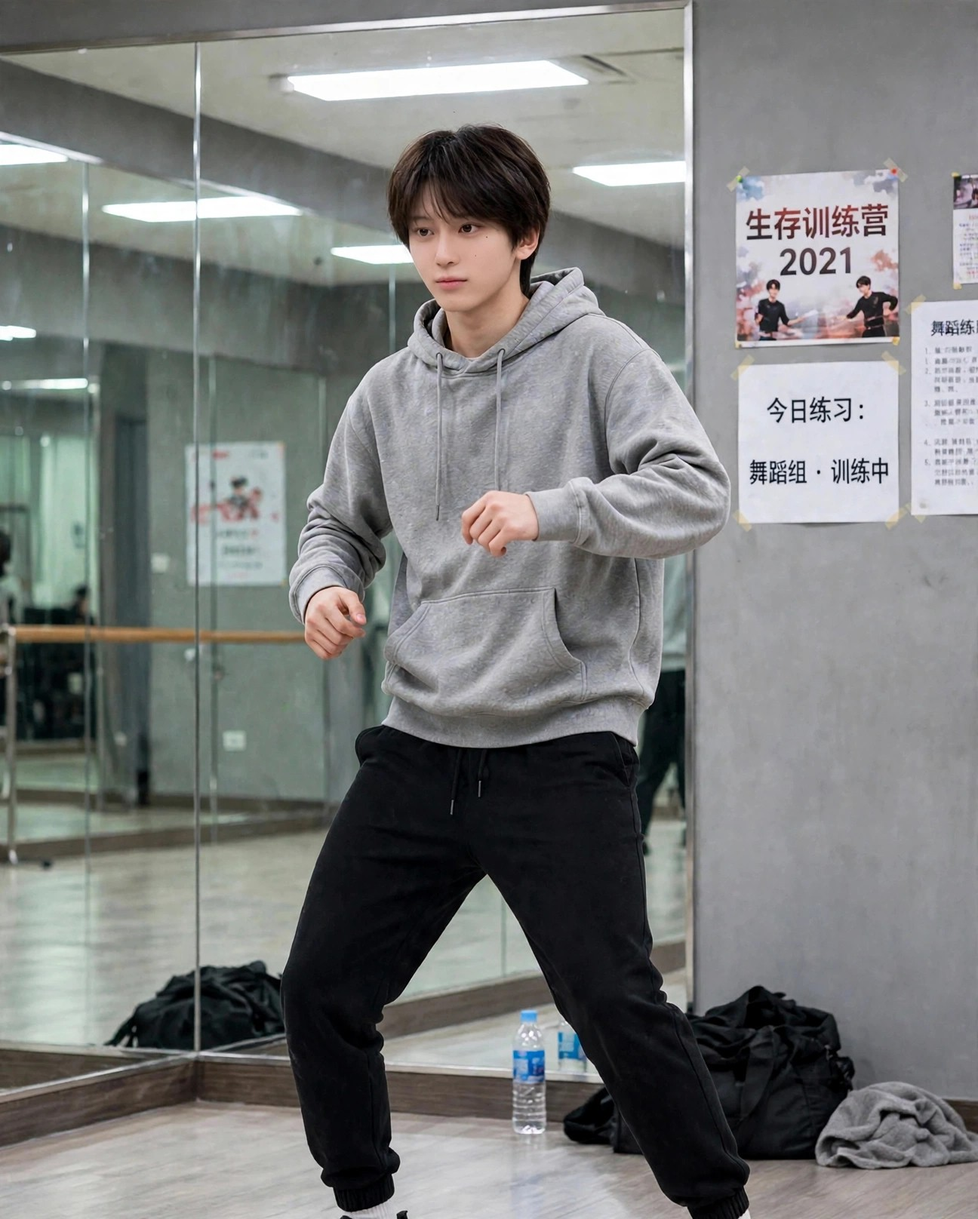
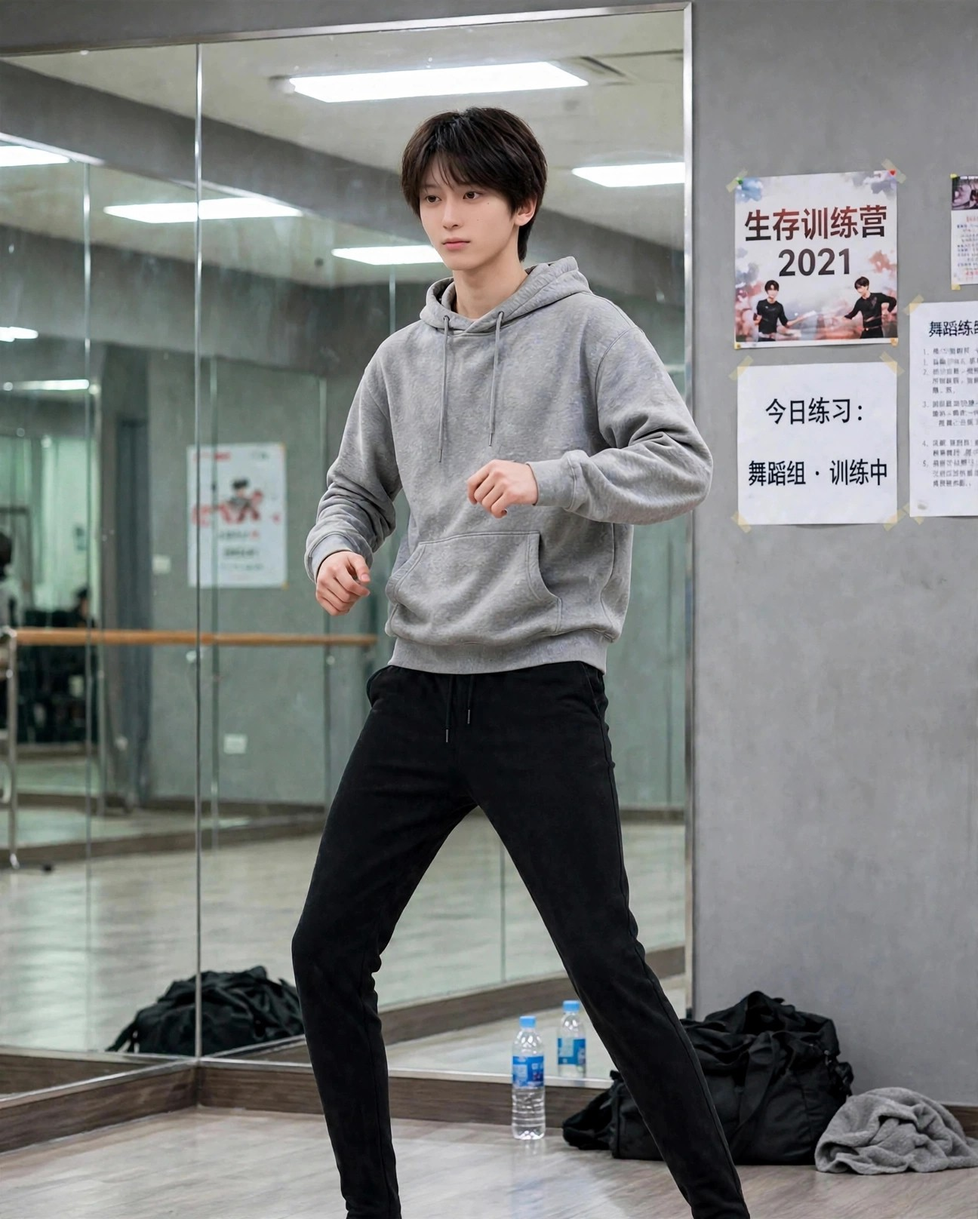
v154: 練習室カット2点の脚の比率を修正

diff --git a/index.html b/index.html
@@ -732,7 +732,7 @@ body{font-family:-apple-system,"Hiragino Kaku Gothic ProN","Noto Sans JP",sans-s
 <script>
 "use strict";
 const $=s=>document.querySelector(s);
-const VER="v153";
+const VER="v154";
 /* ============ state ============ */
 const DEF={idx:0,started:false,consented:false,soundOn:true,
  g:{iwakan:0,bare:0,todoita:0,uta:8,dance:4,ishi:50},
@@ -2472,7 +2472,7 @@ function renderSettings(tab){setTab=tab;document.querySelectorAll("#set-tabs but
  <div class="srow"><span>到達した結末</span><span class="sv">${S.trueEnd?"TRUE END ― 現在":S.normalEnd?"END ― 通常現在":S.loopBad?"BAD END ― ループ継続":S.bareEnd?"END ― 秘密バレIF":S.ridatsuEnd?"END ― 離脱した現在":"（まだ到達していません）"}</span></div>
  <div class="srow"><span>サウンド</span><span class="sv"><button id="snd-btn" style="background:${S.soundOn!==false?"#17172a":"#c6c6d4"};color:#fff;border:none;border-radius:999px;padding:6px 18px;font-size:12.5px;font-weight:700;cursor:pointer">${S.soundOn!==false?"ON":"OFF"}</button></span></div>
  <div class="srow"><span>フィクション</span><span class="sv">実在の記録をもとにした創作です</span></div>
- <div class="srow"><span>アップデート</span><span class="sv">v16 サウンドと画面遷移／v17 差分再演REPLAYとDiff時代別表示／v18 現在の小さな変化／v19 トークのスレッドとフリーチャット／v20・v23・v32 場面カットの追加／v21 日常回（食堂の夜・売店の夜）／v22 番組アプリの情報デザイン／v24 ホーム背景の時代連動と進行％／v25 タイトルのスライドショー／v26 彼の画面のカウンタ／v27 ロック画面の通知スタック／v28 写真の全画面ビューア／v30 章ごとの記録カード／v31 フィナーレ直前の彼の視点／v33 フリーチャットの時代別応答／v34 投票レシート／v35 ミッション進捗バー／v36 ゲージの危険域表示／v37 選んだ記録の判別表示／v38 台帳の時代別表示／v39 Keepsakeの時代バッジ／v41 章名つきロック画面／v42 トークの新着バッジ／v43 名簿の詳細パネル／v44 写真のスワイプ送り／v45 BGMの時代連動／v46 順位・差分の専用SE／v47 長押し早送り／v48 章セレクト／v50 REPLAY再演の追加／v52 日常回（コンビニの夜）／v53 タイトル通知のセーブ連動／v54 アプリアイコンのバッジ／v55 主人公の正式名「三浦渚央」と2019プロフィールの新フェイス差し替え／v56〜v59 プロフィール・場面カットの新フェイス再生成／v60 カード画角の統一（頭部55〜60%）と三浦渚央の順位表示／v61 名簿メモへの順位追記と凡例／v62 周B順位発表の彼の視点／v63 ストーリーバナーのサムネ時代連動／v64 タイトルに正式名／v65 ロック画面に順位通知／v66 情報タブに順位の記録／v67 順位行の文字色修正／v68 現在の小さな変化（順位の残響）／v69 写真メモに順位結果／v70 節目 ― 全アプリ走査／v71 フリーチャットの話題追加／v72 トークのチップ追加／v73・v74 順位タブの空状態整理／v75 順位変動のDiff記録／v76 節目 ― 全アプリ走査／v77 2021周A・初回ステージ後に彼の画面を追加／v78 2023周A・ファンカム章に彼の視点（インライン）を追加／v79 2019周A・順位発表式に彼の視点（インライン）を追加／v80 2023周A・VERY NICE本番前に彼の視点（インライン）を追加／v81 2023周A・寮の夜に彼の視点（インライン）を追加／v82 2019周A・届くはずのなかった手紙に彼の視点（インライン）を追加／v83 フリーチャットの話題拡充（2019専用プール＋新キーワード6種＋チップ追加）／v84 周Aの彼の記憶の線引きで全監査（2021・2023到着場面と彼の画面3件を連続した同僚の前提に書き換え）／v85 2019周A・練習室の夜に彼の視点（インライン）を追加／v86 2021周A・寮の一夜に彼の視点（インライン）を追加／v87 2023周A・コンビニの夜に彼の視点（インライン）を追加／v88 台帳・Keepsake・Diffの時代分類を修正（NXD期グループ新設、誤分類6件を是正）／v89 場面カット追加（2023順位発表の夜・face2基準で新規生成）／v90 場面カット追加（2021ファイナルの夜・face2基準で新規生成）／v91 節目 ― 全アプリ走査／v92 日常回「自販機の夜」（2023・周B）を追加／v93 2019周A・レベル分け評価に彼の視点（インライン）を追加／v94 写真アプリに時代別グルーピング（見出し＋枚数）を追加／v95 場面カット追加（NXD期・夜の練習室、face2基準で新規生成）／v96 フリーチャットの時代別プールを拡充（各時代＋2件）／v97 2019周B・発覚に彼の視点（インライン）を追加／v98 2021周B・再会に彼の視点（インライン）を追加／v99 2023周B・発覚に彼の視点（インライン）を追加／v100 節目 ― 全編通しプレイ検証／v101 効果音の配線追加（台帳・Keepsake・彼の視点）／v102 トークに彼のメッセージを3件追加／v103 タイトルのスライドショー拡充（8枚）とホーム背景のNXD期差し替え／v104 2023周B・再会に彼の視点（インライン）を追加／v105 2021周B・売店の夜に彼の視点（インライン）を追加／v106 NXD期・周B「移籍の決断」に彼の視点（インライン）を追加／v107 2023周B・共同作戦に彼の視点（インライン）を追加／v108 2019周B・共同作戦（ツカメ対策）に彼の視点（インライン）を追加／v109 2021周B・共同作戦に彼の視点（インライン）を追加／v110 NXD期・周B「延期の季節 ― 二度目」に彼の視点（インライン）を追加／v111 フリーチャット拡充（キーワード応答3種・チップ2件・現在編プール拡充）／v112 節目 ― 全アプリ走査／v113 2023周B・自販機の夜に彼の視点（インライン）を追加／v114 2019周A・食堂の夜に彼の視点（インライン）を追加／v115 2021周B・順位発表の締めに彼の視点（インライン）を追加／v116 設計ドキュメントの実装状況を更新／v117 場面カット追加（2019食堂の夜・face2基準で新規生成）／v118 場面カット追加（2021売店の夜・face2基準で新規生成）／v119 場面カット追加（2023コンビニの夜・face2基準で新規生成）／v120 背景の差し替え（現在編の冒頭とソロデビューの場面）／v121 節目 ― 全編通しプレイ検証（v101〜v120の追加後）／v122 画像出典メモ（IMAGE_SOURCES.md）に新規カット6点とface2基準を追記／v123 READMEの状態表記を現行（本編完結・公開中）に更新／v124 視覚QAで発見した順位タブの防御的修正（順位値の欠損時に最低ラインへフォールバック）／v125 節目 ― 全画面の視覚QA（撮影確認）／v126 節目 ― 別エンディング到達検証（秘密バレIF・離脱した現在）／v127 節目 ― 全5エンディング到達検証の完了（通常現在・ループ継続BADを追加確認）／v128 設計ドキュメントの実装状況に最終検証結果を追記／v129 READMEの現行版表記を更新／v130 生成メタファイルを .gitignore に追加して作業ツリーを整理／v131 「届くはずのなかった手紙」に背景を設定（食堂カットの引き継ぎを解消）／v132 フリーチャットの応答拡充（キーワード応答8種・時代別プール各+2件・チップ2件を追加）／v133 仕上げのUI調整（ホームのアプリアイコンのラベルの可読性を向上、ストーリー画面のゲージチップを均等な3+3配置に整形）／v134 フリーチャットに語学の話題を追加（中国語・韓国語・英語へのキーワード応答）／v135 節目 ― 朝まで改修の最終版（全アプリ走査・ドキュメント同期）／v136 トークを実物化（1相手=1スレッドに集約・未読バッジ・プレビュー・実物時刻・日付チップ・自分の送信への既読表示。仕組みは『現役アイドル、Tinderやってた件』のLINEと『キープ管理中！』の未読管理から移植）／v137 2021・2023の渚央プロフィールを制服版に統一（創造営の紺制服／ボイプラの淡グレー制服。名簿・順位・パネル・背景・写真の参照を全て profile-uniform 系へ）／v138 ロック画面とホームの実物化（主通知の送信者を実アプリ名にし未読トークがあれば最新メッセージを表示、日付を月日＋曜日の実物形式に、ホームと写真の操作説明文を撤去）／v139 トークをTinder版（v462）LINEと実測比較して一致（バブルの角・色・文字サイズ、入力欄、送信ボタン、日付チップ、一覧の行構成と検索ボックス、スレッドヘッダーのアバター）／v140 トークにLINEアプリのシェルを移植（下部タブバー＋タブ画面を新設。タブの数・並び・切替挙動はTinder版LINEと同一で、ホームタブは三浦渚央のプロフィール＋届いた応援カード＋友だちリストのパネル、ニュースは番組アプリ、その他は設定・記録へ接続）／v141 ロック画面の進化（時計を88px・太字に、通知カードをblur20px＋saturateの実物仕様にして幅を統一、スタック通知のアイコンをアプリ別SVGに分けて出現をスタッガード化。ステータスバーと電池％を追加し、壁紙を時代連動＋緩やかなズームに。下部のライトは白フラッシュが光る実働ボタンに、カメラは写真アプリへ直行。通知はタップで該当アプリ・記録へ遷移）／v142 ホーム画面の進化（Tinder版ホームのページ構成を移植：飾りだったドットを実働の2ページ化にし、横スワイプとドットタップで切替。2ページ目に物語暦のカレンダーウィジェットと時代のカットが切り替わる写真ウィジェットを新設し、記録サマリと次のミッションを移設。ドットの横に検索ピルを追加し、アプリ・記録を検索して直接開けるシートを実装。下部にガラスのドック（トーク／写真／番組アプリ／設定・記録、バッジ連動）を追加。ステータスバーに電池％、壁紙に緩やかなズーム）／v143 ロック画面の通知スタックの隙間を修正（ベースCSSの上マージン34pxがスタック内の通知にも効いて間隔が42pxに広がっていたのを、実物どおり8pxに統一。あわせて通知領域を時計の下〜下部ボタンの上のスクロール領域にして、通知が多くてもライト／カメラのボタンやヒント文字に重ならないようにした）／v144 写真アプリの進化（『現役アイドル、Tinderやってた件』の写真アプリから移植：2列カード型だったグリッドを3列・隙間2px・正方形の実物仕様にし、時代見出し＋枚数のヘッダーと上部のピル型タブ（すべて／時代別で絞り込み）を新設。ビューアはお気に入り（セーブに保持、グリッドにもハート表示）とスライドショーを追加し、送りを循環式から端で止まるクランプ式に変更、キャプション＋差分メモ＋時代＋通し番号のメタ表示とキー操作に対応。複数選択モード（最大4枚）からコラージュを作成でき、ロック画面の壁紙にも設定できる（時代連動に戻す導線つき）。中身の時代別カットと枚数は従来どおり）／v145 アプリアイコンをTinder版の様式に統一（アイコンを全面SVG化し、背景レイヤーまで1枚に収める方式へ。トーク＝LINE・写真・設定・記録はTinder版と同型のアイコンに、番組アプリは金の縦グラデーション＋王冠のグリフで同水準に。アイコンの角丸と影もTinder版の実測値に一致。あわせてラベル用ピルのCSSがドックのアイコンにも漏れて円形になっていた不具合を修正し、ドックでもグリッドと同じ角丸アイコンが並ぶようにした）／v147 渚央の顔を最終基準（本人の写真由来の顔＋クールな髪型）へ差し替え開始。2023編のプロフィール（基準画像そのものへ差し替え、カード用クロップも新基準で作成）と場面カット全8点を基準顔で再生成／v148 2021編を新基準へ差し替え（プロフィールは19歳相当＋創造営制服＋屋外背景で新規生成、カード用クロップも作成。場面カット5点＝daily／practice／ranking-close／study／shop-nightを19歳相当の基準顔で再生成。stageは次版で差し替え予定）／v149 2019編を新基準へ全面差し替え（プロフィールは17歳相当で再生成し直し、カード用クロップも新規作成。場面カット7点＝stage／stage2／dorm／practice／ranking-close／selfie／cafeteriaを17歳相当の基準顔で再生成）。リンクプレビュー用のog:image（新stageから作成）も新設／v150 旧素材（候補ファイル群・旧プロフィール）を保管庫へ退避し、顔素材を新基準のラインに統一（表示内容の変更なし）／v151 2021のステージカットを新顔基準（19歳版）で差し替え、顔の全面差し替えが完了／v153 2021プロフィールに創造営の学員証を追加（メンバーが付けている装着物に合わせた。2019は名札が既存仕様どおり、2023は装着物なしが実物どおり）。<br>v152 全時代のプロフィールをポーズ付きに作り直し（2019＝ガッツポーズの全身ショット、2021＝頬ハートの膝上ショット、2023＝腕組みのウエスト上ショット。顔は新基準のラインを維持し、寄りクロップも新しい全身から作り直し）</span></div>
+ <div class="srow"><span>アップデート</span><span class="sv">v16 サウンドと画面遷移／v17 差分再演REPLAYとDiff時代別表示／v18 現在の小さな変化／v19 トークのスレッドとフリーチャット／v20・v23・v32 場面カットの追加／v21 日常回（食堂の夜・売店の夜）／v22 番組アプリの情報デザイン／v24 ホーム背景の時代連動と進行％／v25 タイトルのスライドショー／v26 彼の画面のカウンタ／v27 ロック画面の通知スタック／v28 写真の全画面ビューア／v30 章ごとの記録カード／v31 フィナーレ直前の彼の視点／v33 フリーチャットの時代別応答／v34 投票レシート／v35 ミッション進捗バー／v36 ゲージの危険域表示／v37 選んだ記録の判別表示／v38 台帳の時代別表示／v39 Keepsakeの時代バッジ／v41 章名つきロック画面／v42 トークの新着バッジ／v43 名簿の詳細パネル／v44 写真のスワイプ送り／v45 BGMの時代連動／v46 順位・差分の専用SE／v47 長押し早送り／v48 章セレクト／v50 REPLAY再演の追加／v52 日常回（コンビニの夜）／v53 タイトル通知のセーブ連動／v54 アプリアイコンのバッジ／v55 主人公の正式名「三浦渚央」と2019プロフィールの新フェイス差し替え／v56〜v59 プロフィール・場面カットの新フェイス再生成／v60 カード画角の統一（頭部55〜60%）と三浦渚央の順位表示／v61 名簿メモへの順位追記と凡例／v62 周B順位発表の彼の視点／v63 ストーリーバナーのサムネ時代連動／v64 タイトルに正式名／v65 ロック画面に順位通知／v66 情報タブに順位の記録／v67 順位行の文字色修正／v68 現在の小さな変化（順位の残響）／v69 写真メモに順位結果／v70 節目 ― 全アプリ走査／v71 フリーチャットの話題追加／v72 トークのチップ追加／v73・v74 順位タブの空状態整理／v75 順位変動のDiff記録／v76 節目 ― 全アプリ走査／v77 2021周A・初回ステージ後に彼の画面を追加／v78 2023周A・ファンカム章に彼の視点（インライン）を追加／v79 2019周A・順位発表式に彼の視点（インライン）を追加／v80 2023周A・VERY NICE本番前に彼の視点（インライン）を追加／v81 2023周A・寮の夜に彼の視点（インライン）を追加／v82 2019周A・届くはずのなかった手紙に彼の視点（インライン）を追加／v83 フリーチャットの話題拡充（2019専用プール＋新キーワード6種＋チップ追加）／v84 周Aの彼の記憶の線引きで全監査（2021・2023到着場面と彼の画面3件を連続した同僚の前提に書き換え）／v85 2019周A・練習室の夜に彼の視点（インライン）を追加／v86 2021周A・寮の一夜に彼の視点（インライン）を追加／v87 2023周A・コンビニの夜に彼の視点（インライン）を追加／v88 台帳・Keepsake・Diffの時代分類を修正（NXD期グループ新設、誤分類6件を是正）／v89 場面カット追加（2023順位発表の夜・face2基準で新規生成）／v90 場面カット追加（2021ファイナルの夜・face2基準で新規生成）／v91 節目 ― 全アプリ走査／v92 日常回「自販機の夜」（2023・周B）を追加／v93 2019周A・レベル分け評価に彼の視点（インライン）を追加／v94 写真アプリに時代別グルーピング（見出し＋枚数）を追加／v95 場面カット追加（NXD期・夜の練習室、face2基準で新規生成）／v96 フリーチャットの時代別プールを拡充（各時代＋2件）／v97 2019周B・発覚に彼の視点（インライン）を追加／v98 2021周B・再会に彼の視点（インライン）を追加／v99 2023周B・発覚に彼の視点（インライン）を追加／v100 節目 ― 全編通しプレイ検証／v101 効果音の配線追加（台帳・Keepsake・彼の視点）／v102 トークに彼のメッセージを3件追加／v103 タイトルのスライドショー拡充（8枚）とホーム背景のNXD期差し替え／v104 2023周B・再会に彼の視点（インライン）を追加／v105 2021周B・売店の夜に彼の視点（インライン）を追加／v106 NXD期・周B「移籍の決断」に彼の視点（インライン）を追加／v107 2023周B・共同作戦に彼の視点（インライン）を追加／v108 2019周B・共同作戦（ツカメ対策）に彼の視点（インライン）を追加／v109 2021周B・共同作戦に彼の視点（インライン）を追加／v110 NXD期・周B「延期の季節 ― 二度目」に彼の視点（インライン）を追加／v111 フリーチャット拡充（キーワード応答3種・チップ2件・現在編プール拡充）／v112 節目 ― 全アプリ走査／v113 2023周B・自販機の夜に彼の視点（インライン）を追加／v114 2019周A・食堂の夜に彼の視点（インライン）を追加／v115 2021周B・順位発表の締めに彼の視点（インライン）を追加／v116 設計ドキュメントの実装状況を更新／v117 場面カット追加（2019食堂の夜・face2基準で新規生成）／v118 場面カット追加（2021売店の夜・face2基準で新規生成）／v119 場面カット追加（2023コンビニの夜・face2基準で新規生成）／v120 背景の差し替え（現在編の冒頭とソロデビューの場面）／v121 節目 ― 全編通しプレイ検証（v101〜v120の追加後）／v122 画像出典メモ（IMAGE_SOURCES.md）に新規カット6点とface2基準を追記／v123 READMEの状態表記を現行（本編完結・公開中）に更新／v124 視覚QAで発見した順位タブの防御的修正（順位値の欠損時に最低ラインへフォールバック）／v125 節目 ― 全画面の視覚QA（撮影確認）／v126 節目 ― 別エンディング到達検証（秘密バレIF・離脱した現在）／v127 節目 ― 全5エンディング到達検証の完了（通常現在・ループ継続BADを追加確認）／v128 設計ドキュメントの実装状況に最終検証結果を追記／v129 READMEの現行版表記を更新／v130 生成メタファイルを .gitignore に追加して作業ツリーを整理／v131 「届くはずのなかった手紙」に背景を設定（食堂カットの引き継ぎを解消）／v132 フリーチャットの応答拡充（キーワード応答8種・時代別プール各+2件・チップ2件を追加）／v133 仕上げのUI調整（ホームのアプリアイコンのラベルの可読性を向上、ストーリー画面のゲージチップを均等な3+3配置に整形）／v134 フリーチャットに語学の話題を追加（中国語・韓国語・英語へのキーワード応答）／v135 節目 ― 朝まで改修の最終版（全アプリ走査・ドキュメント同期）／v136 トークを実物化（1相手=1スレッドに集約・未読バッジ・プレビュー・実物時刻・日付チップ・自分の送信への既読表示。仕組みは『現役アイドル、Tinderやってた件』のLINEと『キープ管理中！』の未読管理から移植）／v137 2021・2023の渚央プロフィールを制服版に統一（創造営の紺制服／ボイプラの淡グレー制服。名簿・順位・パネル・背景・写真の参照を全て profile-uniform 系へ）／v138 ロック画面とホームの実物化（主通知の送信者を実アプリ名にし未読トークがあれば最新メッセージを表示、日付を月日＋曜日の実物形式に、ホームと写真の操作説明文を撤去）／v139 トークをTinder版（v462）LINEと実測比較して一致（バブルの角・色・文字サイズ、入力欄、送信ボタン、日付チップ、一覧の行構成と検索ボックス、スレッドヘッダーのアバター）／v140 トークにLINEアプリのシェルを移植（下部タブバー＋タブ画面を新設。タブの数・並び・切替挙動はTinder版LINEと同一で、ホームタブは三浦渚央のプロフィール＋届いた応援カード＋友だちリストのパネル、ニュースは番組アプリ、その他は設定・記録へ接続）／v141 ロック画面の進化（時計を88px・太字に、通知カードをblur20px＋saturateの実物仕様にして幅を統一、スタック通知のアイコンをアプリ別SVGに分けて出現をスタッガード化。ステータスバーと電池％を追加し、壁紙を時代連動＋緩やかなズームに。下部のライトは白フラッシュが光る実働ボタンに、カメラは写真アプリへ直行。通知はタップで該当アプリ・記録へ遷移）／v142 ホーム画面の進化（Tinder版ホームのページ構成を移植：飾りだったドットを実働の2ページ化にし、横スワイプとドットタップで切替。2ページ目に物語暦のカレンダーウィジェットと時代のカットが切り替わる写真ウィジェットを新設し、記録サマリと次のミッションを移設。ドットの横に検索ピルを追加し、アプリ・記録を検索して直接開けるシートを実装。下部にガラスのドック（トーク／写真／番組アプリ／設定・記録、バッジ連動）を追加。ステータスバーに電池％、壁紙に緩やかなズーム）／v143 ロック画面の通知スタックの隙間を修正（ベースCSSの上マージン34pxがスタック内の通知にも効いて間隔が42pxに広がっていたのを、実物どおり8pxに統一。あわせて通知領域を時計の下〜下部ボタンの上のスクロール領域にして、通知が多くてもライト／カメラのボタンやヒント文字に重ならないようにした）／v144 写真アプリの進化（『現役アイドル、Tinderやってた件』の写真アプリから移植：2列カード型だったグリッドを3列・隙間2px・正方形の実物仕様にし、時代見出し＋枚数のヘッダーと上部のピル型タブ（すべて／時代別で絞り込み）を新設。ビューアはお気に入り（セーブに保持、グリッドにもハート表示）とスライドショーを追加し、送りを循環式から端で止まるクランプ式に変更、キャプション＋差分メモ＋時代＋通し番号のメタ表示とキー操作に対応。複数選択モード（最大4枚）からコラージュを作成でき、ロック画面の壁紙にも設定できる（時代連動に戻す導線つき）。中身の時代別カットと枚数は従来どおり）／v145 アプリアイコンをTinder版の様式に統一（アイコンを全面SVG化し、背景レイヤーまで1枚に収める方式へ。トーク＝LINE・写真・設定・記録はTinder版と同型のアイコンに、番組アプリは金の縦グラデーション＋王冠のグリフで同水準に。アイコンの角丸と影もTinder版の実測値に一致。あわせてラベル用ピルのCSSがドックのアイコンにも漏れて円形になっていた不具合を修正し、ドックでもグリッドと同じ角丸アイコンが並ぶようにした）／v147 渚央の顔を最終基準（本人の写真由来の顔＋クールな髪型）へ差し替え開始。2023編のプロフィール（基準画像そのものへ差し替え、カード用クロップも新基準で作成）と場面カット全8点を基準顔で再生成／v148 2021編を新基準へ差し替え（プロフィールは19歳相当＋創造営制服＋屋外背景で新規生成、カード用クロップも作成。場面カット5点＝daily／practice／ranking-close／study／shop-nightを19歳相当の基準顔で再生成。stageは次版で差し替え予定）／v149 2019編を新基準へ全面差し替え（プロフィールは17歳相当で再生成し直し、カード用クロップも新規作成。場面カット7点＝stage／stage2／dorm／practice／ranking-close／selfie／cafeteriaを17歳相当の基準顔で再生成）。リンクプレビュー用のog:image（新stageから作成）も新設／v150 旧素材（候補ファイル群・旧プロフィール）を保管庫へ退避し、顔素材を新基準のラインに統一（表示内容の変更なし）／v151 2021のステージカットを新顔基準（19歳版）で差し替え、顔の全面差し替えが完了／v153 2021プロフィールに創造営の学員証を追加（メンバーが付けている装着物に合わせた。2019は名札が既存仕様どおり、2023は装着物なしが実物どおり）。<br>v152 全時代のプロフィールをポーズ付きに作り直し（2019＝ガッツポーズの全身ショット、2021＝頬ハートの膝上ショット、2023＝腕組みのウエスト上ショット。顔は新基準のラインを維持し、寄りクロップも新しい全身から作り直し）<br>v154 全身カットの脚の比率を修正（2019・2021の練習室カットを脚長・細身のモデル体型プロポーションで再生成。構図・ポーズ・顔は維持）</span></div>
  <div class="pad"><p class="small">エンディングは5種（TRUE現在／通常現在／離脱した現在／秘密バレIF／ループ継続BAD）。結末は、彼の岐路での関わり・手がかり（Keepsakeと届いた数）・男装バレ度・最後の選択で分かれます。なお「デビューしてしまう現在」はIF候補として設計にのみ記録され、本編では採用していません（デビューメンバー構成は不変のため）。</p></div>
  <div class="pad"><button class="btn" id="reset-btn" style="background:#ff3b30">データを消して最初から</button></div>`;
  const rb=$("#reset-btn");if(rb)rb.onclick=()=>{if(confirm("セーブデータを消して最初から始めますか？")){localStorage.removeItem("tlSaveV2");location.reload();}};
